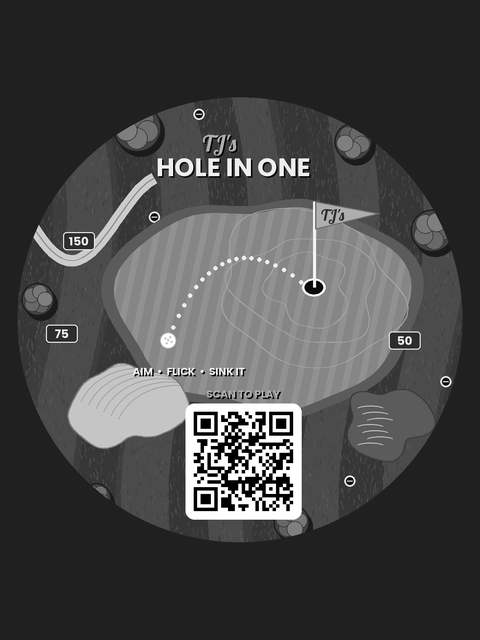
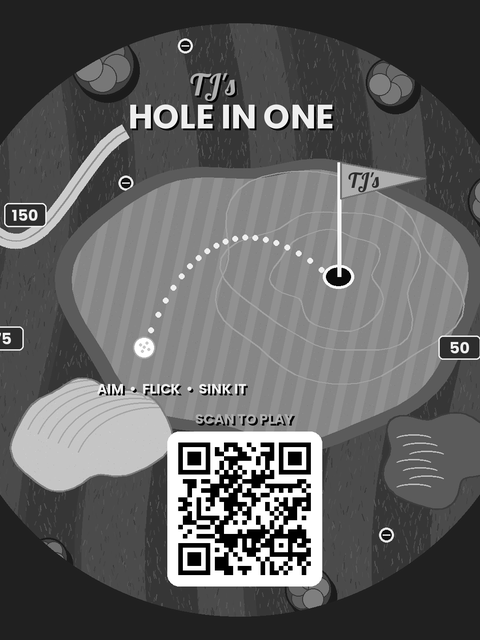
Hole in One (/play2) beta fixes: every finish unlocks the next hole (no par needed), close button stops the camera/AR before leaving, AR engine downloads while the start screen shows, tighter coaster target and quicker placement
Claude-Session: https://claude.ai/code/session_01YEg9DPdQ1zrdRy4Q8SnK1z

diff --git a/play2/index.html b/play2/index.html
@@ -47,7 +47,7 @@
   .ghost { background: rgba(0,0,0,.5); color: #fff; box-shadow: none; border: 1px solid rgba(255,255,255,.5); }
   .small { font-size: 13px; opacity: .65; margin-top: 18px; }
   .small a { color: #d4a854; }
-  #close { position: fixed; top: 14px; left: 14px; z-index: 20; width: 40px; height: 40px; border-radius: 999px; background: rgba(0,0,0,.45); color: #fff; display:flex; align-items:center; justify-content:center; text-decoration:none; }
+  #close { position: fixed; top: 14px; left: 14px; z-index: 30; width: 44px; height: 44px; border-radius: 999px; background: rgba(0,0,0,.45); color: #fff; display:flex; align-items:center; justify-content:center; text-decoration:none; }
   #close svg { width: 20px; height: 20px; fill: none; stroke: currentColor; stroke-width: 2; stroke-linecap: round; }
   #guide { position: fixed; inset: 0; z-index: 5; pointer-events: none; display: flex; flex-direction: column; align-items: center; justify-content: center; transition: opacity .4s; }
   #guide .frame { width: 64vw; max-width: 300px; aspect-ratio: 1; border: 3px dashed rgba(255,255,255,.85); border-radius: 50%;
@@ -57,7 +57,7 @@
   #loading { position: fixed; bottom: 40px; left: 0; right: 0; text-align: center; z-index: 6; font-size: 14px; opacity: .8; }
   /* Scorecard (top right) and tip line (bottom) */
   #hud { position: fixed; top: 14px; right: 14px; z-index: 8; background: rgba(0,0,0,.5); border-radius: 14px; padding: 8px 14px; text-align: right; font-size: 12px; letter-spacing: .06em; transition: opacity .4s; }
-  #sizes { position: fixed; left: max(14px, env(safe-area-inset-left)); top: calc(max(14px, env(safe-area-inset-top)) + 52px); z-index: 8; display: flex; gap: 6px; align-items: center;
+  #sizes { position: fixed; left: max(14px, env(safe-area-inset-left)); top: calc(max(14px, env(safe-area-inset-top)) + 58px); z-index: 8; display: flex; gap: 6px; align-items: center;
     background: rgba(0,0,0,.5); border-radius: 14px; padding: 6px 8px; font-size: 11px; letter-spacing: .08em; transition: opacity .4s; }
   #sizes button { font: 700 13px Inter, sans-serif; color: #f3eee4; background: transparent; border: 1px solid rgba(255,255,255,.35); border-radius: 999px; padding: 5px 10px; }
   #sizes button.on { background: #d4a854; color: #15302a; border-color: #d4a854; }
@@ -157,6 +157,7 @@ const FRICTION = { green: 0.36, rough: 0.55, sand: 2.7 };   // rough = the fairw
 const MAX_SPEED = 1.9, POWER = 4.5;
 const SINK_SPEED = 0.46;
 const PAR = 3;
+const BETA_UNLOCK_ALL = true;      // beta testing: no par requirement to move on
 const FIXED_STEP = 1 / 120;
 const SLOPE_GRAVITY = 1.25;
 const MAX_SLOPE_ACCEL = 0.24;
@@ -936,7 +937,7 @@ function makeGame({ group, camera, renderer, isTracking }) {
     burstConfetti();
     if (navigator.vibrate) navigator.vibrate([40, 60, 80]);
     const n = st.strokes, par = L.def.par, last = L.n === LEVELS.length - 1;
-    const made = n <= par;                      // par or better unlocks the next hole
+    const made = BETA_UNLOCK_ALL || n <= par;   // beta: every finish unlocks the next hole (normally par or better)
     const name = made && last ? 'Course champion!' : n === 1 ? 'Hole in one!' : n === par - 1 ? 'Birdie!' : n === par ? 'Par' : n === par + 1 ? 'Bogey' : n === par + 2 ? 'Double bogey' : 'In the cup';
     $('resTitle').textContent = name;
     let line = n === 1 ? 'One stroke. Drinks are on you.' : `${n} strokes${n <= par ? '. Nice putting.' : '. The bar is still open.'}`;
@@ -1178,7 +1179,11 @@ function debugLine(text) {
 }
 const MOTION_HELP = 'Motion access is off, so the course can\'t stay on the bar. Close this tab, open the page again and tap Allow for Motion & Orientation.';
 
+let xrLoading = null;
 function loadEighthWall() {
+  return xrLoading ||= loadEighthWallNow();
+}
+function loadEighthWallNow() {
   return new Promise((resolve, reject) => {
     if (window.XR8) return resolve(window.XR8);
     window.addEventListener('xrloaded', () => resolve(window.XR8), { once: true });
@@ -1209,11 +1214,11 @@ async function startEighth() {
   let unitM = SIZES.M, worldPerMetre = 1;
   let smoothCamera = () => {};
   let trackStatus = 'starting', camStart = null, camMoved = 0, runT = 0;   // has world tracking actually moved the camera?
-  const camMovedEnough = () => camMoved > 0.02 || notrack;
+  const camMovedEnough = () => camMoved > 0.01 || notrack;
   const tP = new THREE.Vector3(), tN = new THREE.Vector3(0, 1, 0), fwd = new THREE.Vector3(), tQ = new THREE.Quaternion();
   const basis = new THREE.Matrix4(), tmpV3 = new THREE.Vector3(), right = new THREE.Vector3();
   const clock = new THREE.Clock();
-  const COASTER_M = 0.0889;                               // the image target is the 3.5 in coaster art
+  const COASTER_M = 0.0889 * 0.75;                        // the image target is the middle 3/4 of the 3.5 in coaster art
   let slamReady = false;                                 // 8th Wall world tracking has initialised (status NORMAL)
   const samples = [];                                     // recent coaster poses, averaged before placing
   const UP = new THREE.Vector3(0, 1, 0);                  // 8th Wall world: y is up (gravity)
@@ -1230,7 +1235,7 @@ async function startEighth() {
     tP.divideScalar(samples.length); tN.normalize(); worldPerMetre = w / samples.length;
     const spread = Math.max(...samples.map(s => s.p.distanceTo(tP))) / worldPerMetre;   // metres
     if (tN.angleTo(UP) < 0.35) tN.copy(UP);               // a bar is level: snap to true up for a rock-steady course
-    return spread < 0.02;                                 // within 2 cm: the phone is steady enough
+    return spread < 0.03;                                 // within 3 cm: steady enough
   };
   const orient = () => {                                  // course: x right, y away from the player, z up off the bar
     tmpV3.copy(fwd).addScaledVector(tN, -fwd.dot(tN));
@@ -1257,7 +1262,7 @@ async function startEighth() {
     visible = true; fromDetail(detail);
     if (!slamReady && !notrack) { hint('Keep moving slowly so the camera can map the bar'); return; }
     if (!camMovedEnough()) { hint(MOTION.events === 0 ? MOTION_HELP : 'Move your phone a little so it can lock onto the bar'); return; }
-    if (samples.length < 12 || !averaged()) { hint('Found the coaster. Hold steady…'); return; }
+    if (samples.length < 6 || !averaged()) { hint('Found the coaster. Hold steady…'); return; }
     placeCourse();
   };
   const onLost = ({ detail }) => { if (detail.name === 'coaster') { visible = false; samples.length = 0; } };   // once placed, SLAM keeps the course on the bar
@@ -1376,6 +1381,15 @@ for (const id of ['demoLink', 'demoLink2']) {
   });
 }
 if (location.hash === '#demo') go(true);
+else if (!IN_APP) loadEighthWall().catch(() => {});   // start the 6 MB engine download while the player reads the start screen
+
+// Close: shut the camera and AR engine down first, then go home (a plain link left the camera running and could hang)
+$('close').addEventListener('click', (e) => {
+  e.preventDefault();
+  try { window.XR8 && window.XR8.stop(); } catch {}
+  document.querySelectorAll('video').forEach(v => v.srcObject?.getTracks?.().forEach(t => t.stop()));
+  location.href = '/';
+});
 </script>
 </body>
 </html>
